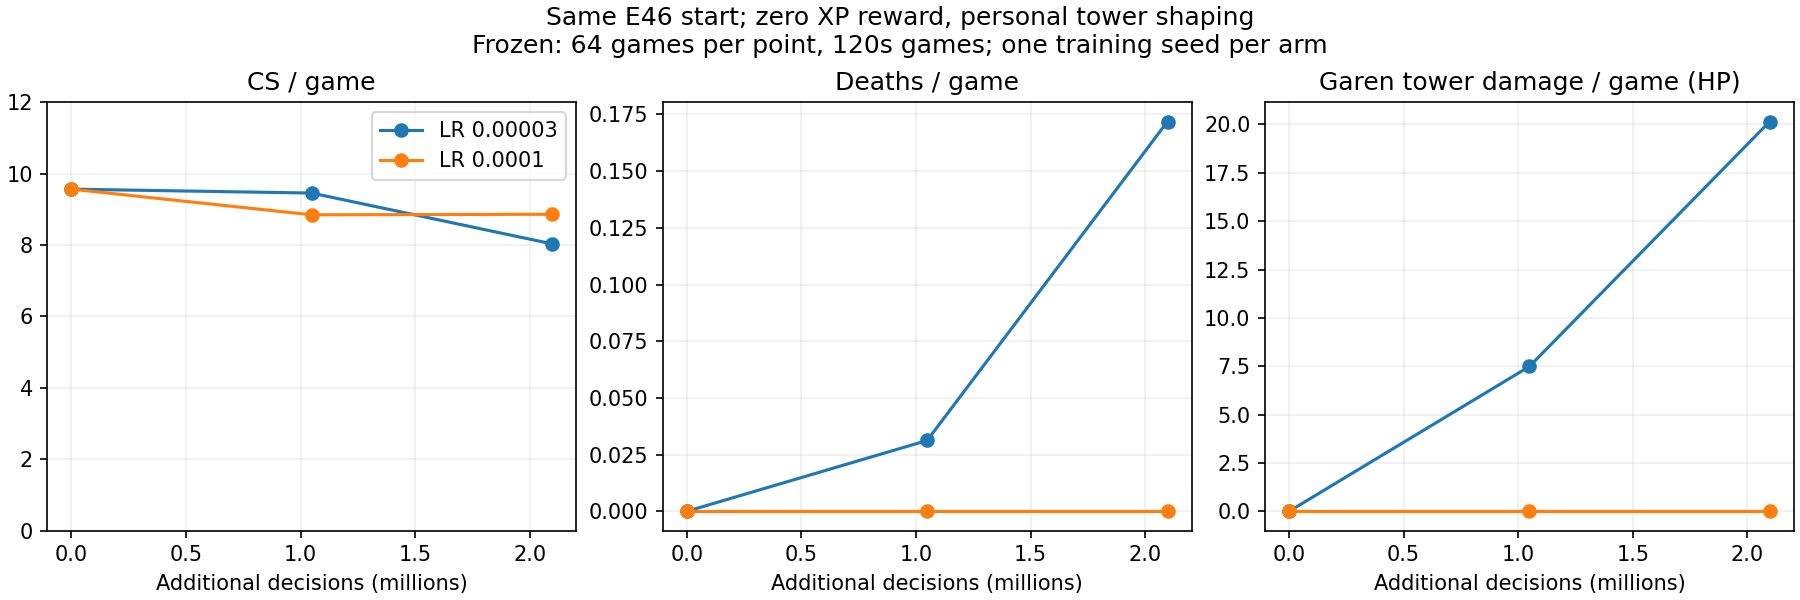
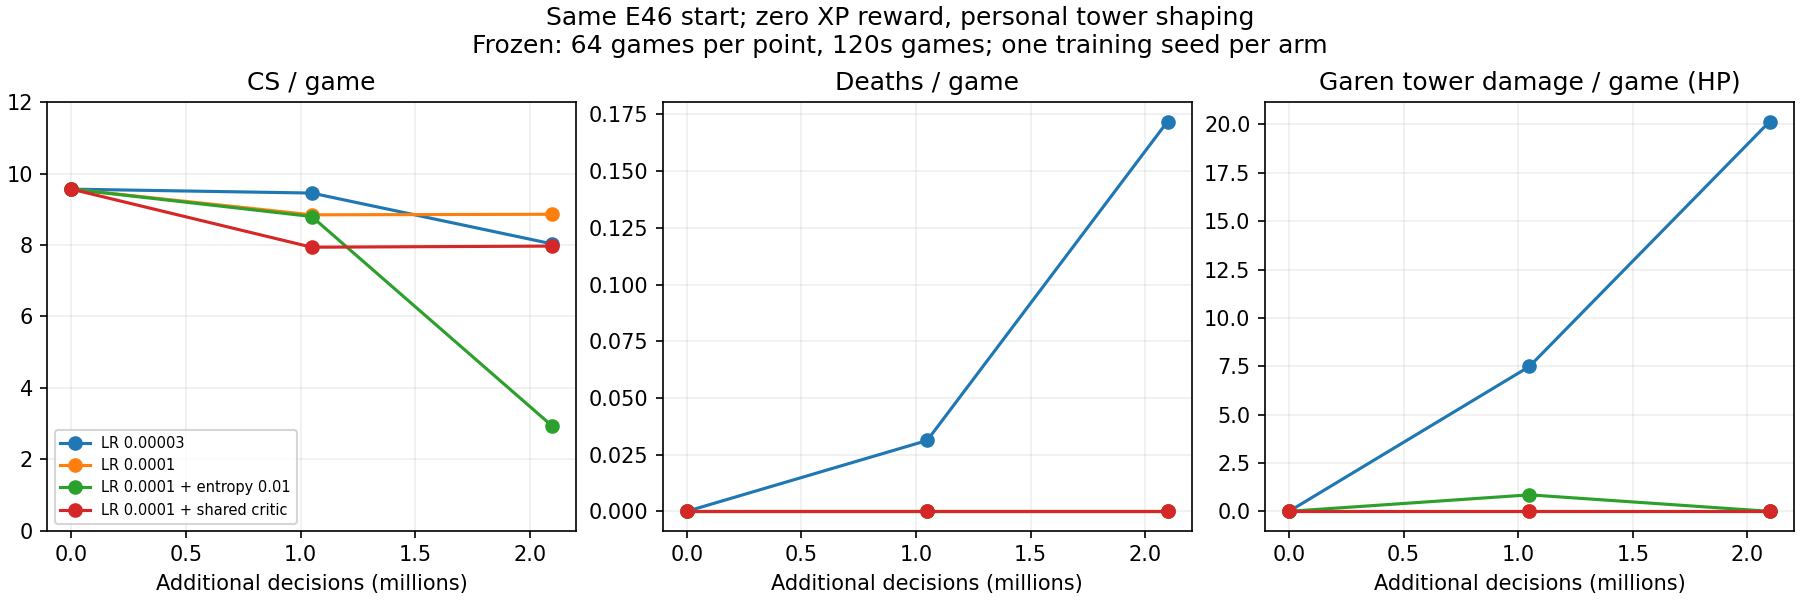
Record shared-critic outcome and complete AFK diagnostic comparison

diff --git a/ops/figures/afk_lr_comparison.py b/ops/figures/afk_lr_comparison.py
@@ -1,4 +1,4 @@
-"""TOOL: frozen E50/E51 matched learning-rate comparison, one training seed."""
+"""TOOL: frozen E50–E53 AFK comparison, one training seed."""
 import json
 from pathlib import Path
 import matplotlib
@@ -7,12 +7,12 @@ import matplotlib.pyplot as plt
 import numpy as np
 ROOT=Path(__file__).resolve().parents[2]
 fig,axes=plt.subplots(1,3,figsize=(12,4),layout='constrained')
-for exp,label in [('E50_afk_personal_lr3e5','LR 0.00003'),('E51_afk_personal_lr1e4','LR 0.0001')]:
+for exp,label in [('E50_afk_personal_lr3e5','LR 0.00003'),('E51_afk_personal_lr1e4','LR 0.0001'),('E52_afk_entropy','LR 0.0001 + entropy 0.01'),('E53_afk_shared_critic','LR 0.0001 + shared critic')]:
  study=json.loads(Path('/mnt/nfs/checkpoints/lanerl-jax',exp,'study.json').read_text())
  rows=[json.loads(l) for l in (Path(study['path'])/'evaluations.jsonl').read_text().splitlines()]
  for ax,key,title in zip(axes,['cs','deaths','tower_damage'],['CS / game','Deaths / game','Garen tower damage / game (HP)']):
   ax.plot([r['update']*16384/1e6 for r in rows],[np.mean([e[key] for e in r['episodes'] if e['team']==0]) for r in rows],'-o',label=label)
   ax.set(title=title,xlabel='Additional decisions (millions)');ax.grid(alpha=.2)
-axes[0].legend();axes[0].set_ylim(0,12)
+axes[0].legend(fontsize=7);axes[0].set_ylim(0,12)
 fig.suptitle('Same E46 start; zero XP reward, personal tower shaping\nFrozen: 64 games per point, 120s games; one training seed per arm')
 p=ROOT/'docs/figures/E50_E51_comparison.png';fig.savefig(p,dpi=150);print(p)

diff --git a/STATUS.md b/STATUS.md
@@ -1,4 +1,4 @@
-**E52 COMPLETE / E53 RUNNING1814:** E52 job1813 exit0,14m24s;128updates/2.097M,checkpoint/latest finite verified. Frozen64games at0/64/128: CS9.5625/8.796875/2.9375,deaths0 throughout,towerHP0/.8526/0. Entropy.01 harmed farming; do not extend. Train first/last16 entropy6.673→9.113 (button.788→1.367,x3.202→4.157,y2.682→3.589). E52 watcher inactive/registry removed. E53 sameE46init,LR1e-4,entropy.001,detach_critic false; dry-run,11 GPU canaries and180s startup watch passed. Registered `lanerl-event-1814.service` active until 2026-10-01T02:18:13.725718+00:00; state `/mnt/nfs/shared/slurm-events/1814/result.json`. On completion compare E51/E52/E53; only extend if>=10.0625CS and<=.05deaths,one bounded512update continuation; otherwise report.
+**E50–E53 COMPLETE; NO EXTENSION:** E53 job1814 exit0,14m29s;128updates/2.097M,checkpoint/latest finite verified. Frozen64game120s AFK common baseline9.5625CS/0deaths; final E50 lowLR8.03125/.171875, E51 highLR8.859375/0, E52 highentropy2.9375/0, E53 sharedcritic7.96875/0. E53 personal towerHP0. No new arm passes>=10.0625CS/.05death gate, so do not extend. E53 last16 train explained variance.492 versus first16 .182 (bootstrapped targets; changing distributions), yet CS worse; critic fit alone not sufficient. E53 bridge inactive/registry cleaned. Next proposed diagnostic: same-state gold reward→GAE→PPO action probability audit for successful/missed last hits, rather than another blind sweep. Figure docs/figures/E50_E51_comparison.png now includes all four arms.
 
 **E50/E51 COMPLETE — no training active from this comparison:** E51 job1805 exit0,14m21s,128updates/2.097M. Frozen64-game120s AFK: common E46 baseline9.5625CS/0deaths/0personal towerHP; E50 LR3e-5 final8.03125/.171875/20.1505HP; E51 LR1e-4 final8.859375/0/0HP. HigherLR meets directional comparison against E50 (+.828CS/no extra deaths) but does not beat original baseline. New-reward returns baseline6.3293,E50 3.0785,E51 5.9312. All checkpoints/128 metric rows finite,latest identical; both watcher services inactive/registry cleaned. No automatic extension. Next discuss diagnosis (including critic adaptation to changed rewards) before another experiment. Figure `docs/figures/E50_E51_comparison.png`.
 

diff --git a/docs/JAX_FIDELITY_LEDGER.md b/docs/JAX_FIDELITY_LEDGER.md
@@ -590,3 +590,5 @@ History lives in `docs/EXPERIMENTS.md` and `docs/JAX_FIDELITY_LEDGER.md`.
 | LEARN-AFK-06 validation | Two CPU tests passed: exact reference loss/gradient agreement with added diagnostics; detached/shared critic initial outputs identical, gradient routing as intended. E52 Slurm1813 passed11 GPU canaries and180s startup watch. | Completion bridge armed; E53 already authorized next. Frozen outcomes pending. |
 
 | LEARN-AFK-07 | E52 entropy.01,LR1e-4 complete1813 exit0,14m24s. Frozen64games120s u0/64/128: CS9.5625/8.796875/2.9375; deaths0/0/0; personal towerHP0/.8526/0; cleaned reward6.3293/6.1861/1.8550. First/last16 train entropy6.6727/9.1130,button.7882/1.3671,x3.2024/4.1568,y2.6820/3.5892; EV−.3256/.2260,value bias.0779/.00805. Positive raw GAE on gold-event fraction .451/.628 (window-average; bootstrapped/descriptive,not proof of correct credit). Final checkpoint step2097152 and all arrays finite,latest identical,128 rows/nonfinite flags0. `/mnt/nfs/checkpoints/lanerl-jax/E52_afk_entropy/vec-s0-20261001-000248-6ddcc544/`. | High entropy worsened farming versus E51 final8.8594; no extension. Shared-critic E53 submitted1814 from same originalE46,not E52. E52 bridge cleanup verified. |
+
+| LEARN-AFK-08 | E53 sharedcritic,LR1e-4,entropy.001 complete1814 exit0,14m29s. Frozen64games120s u0/64/128: CS9.5625/7.9375/7.96875,deaths0 throughout,personal towerHP0; cleaned reward6.3293/5.6487/5.6079. First/last16 train EV.1818/.4925,value loss.1108/.01284,value bias.0436/.00778,entropy6.6763/7.3984,approxKL.1023/.01322. Positive raw GAE fraction on gold .506/.661. Final checkpoint step2097152/all numeric arrays finite/latest identical,128 metrics/nonfinite0. `/mnt/nfs/checkpoints/lanerl-jax/E53_afk_shared_critic/vec-s0-20261001-001821-fd41aed1/`. | Better fit to changing bootstrapped targets did not improve CS. Neither E52 nor E53 qualifies for authorized bounded extension; none launched. One seed per configuration, no root cause proven. All-arm plot in docs/figures/E50_E51_comparison.png; E53 bridge cleanup verified. Next proposed gold-event advantage/policy-update audit. |

diff --git a/docs/EXPERIMENTS.md b/docs/EXPERIMENTS.md
@@ -7,7 +7,7 @@ labelled `train`.
 | Run dir (under `lanerl_jax/runs/`) | Date | Engine | Task | Learner | Budget | Result | Verdict |
 |---|---|---|---|---|---|---|---|
 | `E52_afk_entropy` |09-30| JAX PPO AFK | LR1e-4; entropy.01 vs E51 .001 | Same E46final |128updates/2.097M| COMPLETE1813 exit0,14m24s; final2.94CS/0deaths/0towerHP, reject extension | Frozen CS/deaths/personal tower |
-| `E53_afk_shared_critic` |09-30| JAX PPO AFK | LR1e-4; enable critic shared-feature gradients | Same E46final |128updates/2.097M| RUNNING1814;11 GPU canaries/180s watch passed; bridge armed | Same actor/value at init; entropy.001 |
+| `E53_afk_shared_critic` |09-30| JAX PPO AFK | LR1e-4; enable critic shared-feature gradients | Same E46final |128updates/2.097M| COMPLETE1814 exit0,14m29s; final7.97CS/0deaths/0towerHP; no extension | Same actor/value at init; entropy.001 |
 | `E50_afk_personal_lr3e5` |09-30| JAX PPO AFK | Zero XP, personal tower; constantLR3e-5 | E46 final, fresh optimizer |128updates/2.097M | COMPLETE1804 exit0,15m14s; frozenCS9.56→8.03,deaths0→.172,towerHP0→20.15 | Matched control for E51 |
 | `E51_afk_personal_lr1e4` |09-30| JAX PPO AFK | Same rewards; constantLR1e-4 | E46 final, fresh optimizer |128updates/2.097M | COMPLETE1805 exit0,14m21s; frozen8.86CS/0deaths/0personal towerHP; below9.56 baseline | Frozen CS/deaths/personal tower, same seeds |
 | `E49_afk_final_video` |09-30| CPU frozen video | Full120s E46 final AFK game,1x | E46u612 | One seed7 fullHP game | COMPLETE1800 exit0; both120.1s videos verified,7CS/0deaths; bridge cleaned up | Diagnostic replay, not aggregate score |

diff --git a/docs/CODEMAP.md b/docs/CODEMAP.md
@@ -51,4 +51,4 @@ TOOL: `ops/slurm_event_bridge.py`: reusable bounded single-job completion/failur
 
 TOOL: `ops/figures/afk_training_curve.py` regenerates `docs/figures/E46_training_curve.png` from frozen E46 evals and labeled train diagnostics.
 
-TOOL: `ops/figures/afk_lr_comparison.py` regenerates the E50/E51 frozen CS/deaths/personal tower comparison in `docs/figures/E50_E51_comparison.png`.
+TOOL: `ops/figures/afk_lr_comparison.py` regenerates the E50–E53 frozen CS/deaths/personal tower comparison in `docs/figures/E50_E51_comparison.png`.
